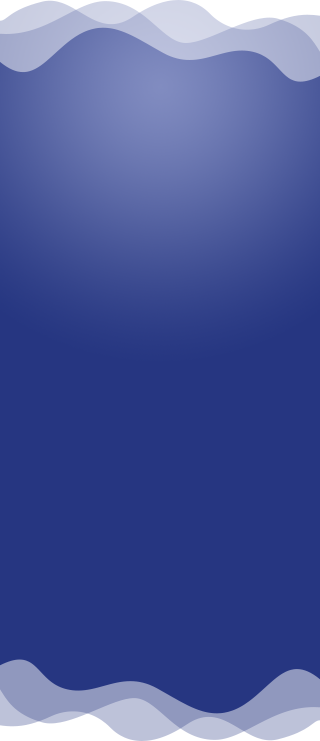
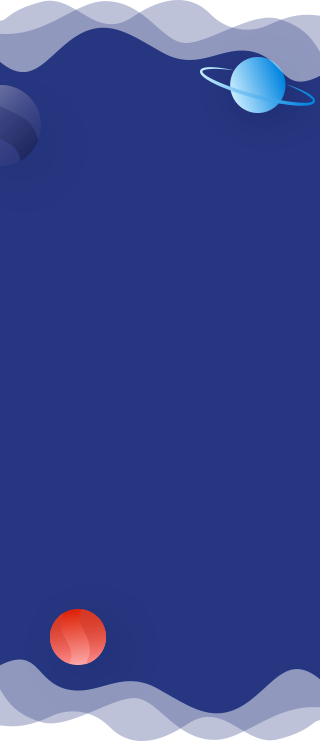
animate

Changed region(s): [[0.0, 0.0, 1.0, 0.3725], [0.1562, 0.807, 0.3438, 0.9001]]

diff --git a/css/style.css b/css/style.css
@@ -982,14 +982,14 @@ header {
 .fourth-block:after {
     content: "";
     position: absolute;
-    width: 50vw;
-    height: 50vw;
+    width: 85vw;
+    height: 85vw;
     background-color: transparent;
     background-image: radial-gradient( circle closest-side, white, transparent );
-    top: -30%;
+    top: -95%;
     opacity: 0.5;
     z-index: 0;
-    left: -2%;
+    left: -20%;
 }
 
 .fourth-block .stars{
@@ -1044,7 +1044,7 @@ header {
     left: 14%;
     transform: rotate(35deg);
     z-index: 1;
-    animation: bottom-rocket 15s linear infinite;
+    animation: bottom-rocket 20s linear infinite;
 }
 
 .bottom-rocket:before{
@@ -1060,18 +1060,43 @@ header {
 @keyframes bottom-rocket {
     0% {
         transform: translate(-359%, 183%) rotate(35deg);
+        opacity: 0;
     }
-    45% {
+    2% {
+        transform: translate(-349%, 173%) rotate(35deg);
+        opacity: 1;
+    }
+    35% {
+        opacity: 1;
+        transform: translate(+320%, -210%) rotate(35deg);
+    }
+    37% {
+        opacity: 0;
         transform: translate(+380%, -250%) rotate(35deg);
     }
     50%{
+        opacity: 0;
         transform: translate(+380%, -250%) rotate(90deg);
     }
-    55% {
+    73% {
+        opacity: 0;
         transform: translate(+550%, -250%) rotate(150deg);
+    }
+    75% {
+        opacity: 1;
+        transform: translate(+590%, -200%) rotate(150deg);
+    }
+    95% {
+        transform: translate(+990%, 150%) rotate(150deg);
+        opacity: 1;
+    }
+    98% {
+        transform: translate(+1020%, 165%) rotate(150deg);
+        opacity: 0;
     }
     100% {
         transform: translate(+1050%, 182%) rotate(150deg);
+        opacity: 0;
     }
 }
 
@@ -1487,6 +1512,10 @@ footer{
         height: 135%;
         width: 105%;
     }
+    .second-block:after {
+        top: -156%;
+        right: -89%;
+    }
 
 }
 
@@ -1582,6 +1611,7 @@ footer{
 
     .third-block{
         text-align: center;
+        min-height: 840px;
     }
 
     .title__txt:after{
@@ -1602,6 +1632,17 @@ footer{
     .about-us__item .about-us__item-txt {
         text-align: left;
     }
+    .second-block:after {
+        top: -70%;
+        right: -100%;
+    }
+    .fourth-block:before {
+        top: -250%;
+    }
+    .fourth-block:after{
+        top: -55%;
+        left: -30%;
+    }
 }
 
 @media (max-width: 560px) {
@@ -1614,7 +1655,7 @@ footer{
 
 
 @media (max-width: 500px) {
-    .header{
+    .header {
         margin-top: 0;
         height: 65px;
         display: flex;
@@ -1622,23 +1663,32 @@ footer{
         align-items: center;
     }
 
-    header{
+    header {
         border-bottom: 1px solid #e8e8e8;
     }
 
-    .header__inner{
+    .header__inner {
         width: 100%;
     }
 
-    .register{
+    .register {
         display: none;
     }
 
-    .login{
+    .login {
         margin-right: 0;
     }
 
-    .top-block .title .title__txt{
+    .title__txt {
+        max-width: 100% !important;
+        font-size: 28px;
+    }
+
+    .title__txt br {
+        display: none;
+    }
+
+    .top-block .title .title__txt {
         padding-left: 0;
         margin-top: 60px;
     }
@@ -1648,19 +1698,19 @@ footer{
         margin-left: 0;
     }
 
-    .top-block .title .title__txt br ~ br{
+    .top-block .title .title__txt br ~ br {
         display: block;
     }
 
-    .title__caption{
+    .title__caption {
         max-width: 100%;
     }
 
-    .top-block .title__caption{
+    .top-block .title__caption {
         margin-bottom: 40px;
     }
 
-    .title{
+    .title {
         display: flex;
         flex-direction: column;
     }
@@ -1670,12 +1720,12 @@ footer{
         height: 50px;
     }
 
-    .about-us__list{
+    .about-us__list {
         display: flex;
         flex-direction: column;
     }
 
-    .about-us__item{
+    .about-us__item {
         width: 100%;
         margin-bottom: 24px;
     }
@@ -1705,20 +1755,27 @@ footer{
 
     .third-block:after,
     .third-block:before,
+    .fourth-block:before,
+    .fourth-block:after,
+    .second-block:after,
     .bitkoin,
+    .planet-1,
+    .planet-4,
+    .planet-6,
     .waves-1,
     .waves-2,
-    .waves-3{
+    .waves-3 {
         background: unset;
         display: none;
     }
 
-    .footer{
+
+    .footer {
         background: unset;
         padding-bottom: 65px;
     }
 
-    .top-rocket{
+    .top-rocket {
         width: 135px;
         height: 325px;
         transform: rotate(0) translateX(-50%);
@@ -1726,11 +1783,11 @@ footer{
         margin-left: 0;
     }
 
-    .top-block{
+    .top-block {
         overflow: visible;
     }
 
-    .second-block{
+    .second-block {
         background: url(../img/mob-t-bg.png) top center no-repeat;
         background-size: 100% 1266px;
 
@@ -1755,11 +1812,11 @@ footer{
         margin-top: 40px;
     }
 
-    .page-wrap{
+    .page-wrap {
         background: transparent;
     }
 
-    .fourth-block{
+    .fourth-block {
         padding-top: 170px;
         padding-bottom: 230px;
         background: url(../img/mob-f-bg.png) top center no-repeat;
@@ -1767,7 +1824,22 @@ footer{
         margin-top: 80px;
     }
 
-    .footer__right{
+
+    .footer__right {
         margin-top: 25px;
+    }
+
+    .third-block {
+        min-height: 700px;
+    }
+
+    .footer__right {
+        text-align: center;
+    }
+
+    .bottom-rocket {
+        position: absolute;
+        bottom: 55%;
+        left: 21%;
     }
 }

diff --git a/index.html b/index.html
@@ -142,7 +142,7 @@
                 </div>
             </div>
 
-            <div class="third-block " >
+            <div class="third-block" >
                 <div class="inner-block container scroll-block" data-id="third-block">
                     <div class="title">
                         <h1 class="title__txt" data-aos="fade-down" data-aos-delay="250" data-aos-duration="1500">

diff --git a/js/main.js b/js/main.js
@@ -130,6 +130,8 @@ $(document).ready(function () {
         });
     }
 
+
+
 });
 
 
